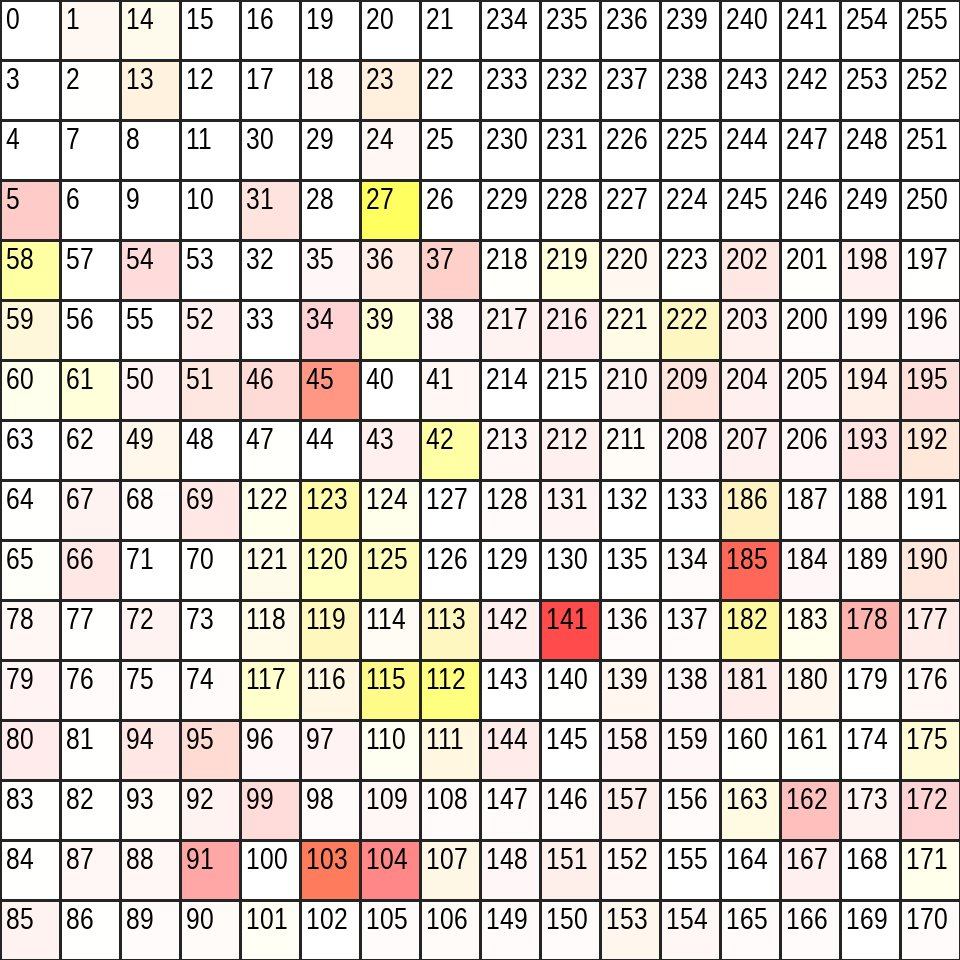
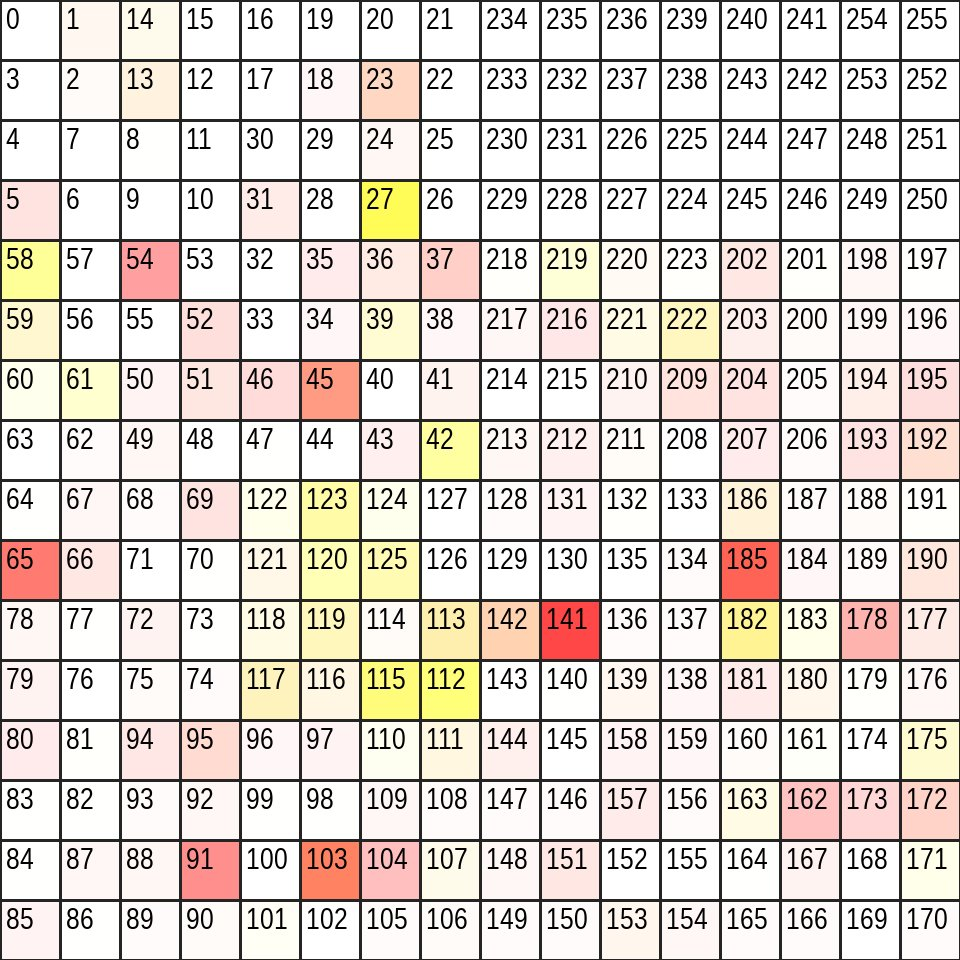
Daily C2 update - see @SarlackLab

diff --git a/docs/index.html b/docs/index.html
@@ -33,34 +33,34 @@
 		<p><i>Kicking files and taking domain names</i></p>
 		<div class="half">
 			<h3>Dangerous /8 spaces across IPv4</h3>
-			<img src="https://raw.githubusercontent.com/Abjuri5t/SarlackLab/main/2021-Maps/2021-September-13.jpg" width="85%">
+			<img src="https://raw.githubusercontent.com/Abjuri5t/SarlackLab/main/2021-Maps/2021-September-14.jpg" width="85%">
 		</div>
 		<div class="half">	
 			<div class="half">
-				<h3>Top 10 Servers</h3>
-				<p> - 141.8.193.236</p>
-				<p> - 91.219.60.60</p>
-				<p> - 141.8.197.42</p>
-				<p> - 141.8.192.151</p>
-				<p> - 34.102.176.152</p>
-				<p> - 185.143.48.16</p>
-				<p> - 142.4.219.173</p>
-				<p> - 45.252.248.59</p>
-				<p> - 178.134.47.166</p>
-				<p> - 104.16.86.20</p>
+				<h3>Dangerous Ranges</h3>
+				<p> - 1</p>
+				<p> - 4</p>
+				<p> - 3</p>
+				<p> - 1</p>
+				<p> - 1</p>
+				<p> - 5</p>
+				<p> - 1</p>
+				<p> - 1</p>
+				<p> - 4</p>
+				<p> - 1</p>
 			</div>
 			<div class="half">
-				<h3>Top 10 /8 Spaces</h3>
-				<p> - 141.0.0.0/8</p>
+				<h3>Sketchy /8 Spaces</h3>
 				<p> - 185.0.0.0/8</p>
+				<p> - 141.0.0.0/8</p>
+				<p> - 65.0.0.0/8</p>
 				<p> - 103.0.0.0/8</p>
-				<p> - 104.0.0.0/8</p>
-				<p> - 45.0.0.0/8</p>
 				<p> - 91.0.0.0/8</p>
+				<p> - 45.0.0.0/8</p>
+				<p> - 54.0.0.0/8</p>
+				<p> - 13.0.0.0/8</p>
+				<p> - 104.0.0.0/8</p>
 				<p> - 178.0.0.0/8</p>
-				<p> - 162.0.0.0/8</p>
-				<p> - 5.0.0.0/8</p>
-				<p> - 37.0.0.0/8</p>
 			</div>
 		</div>
 		<br>
